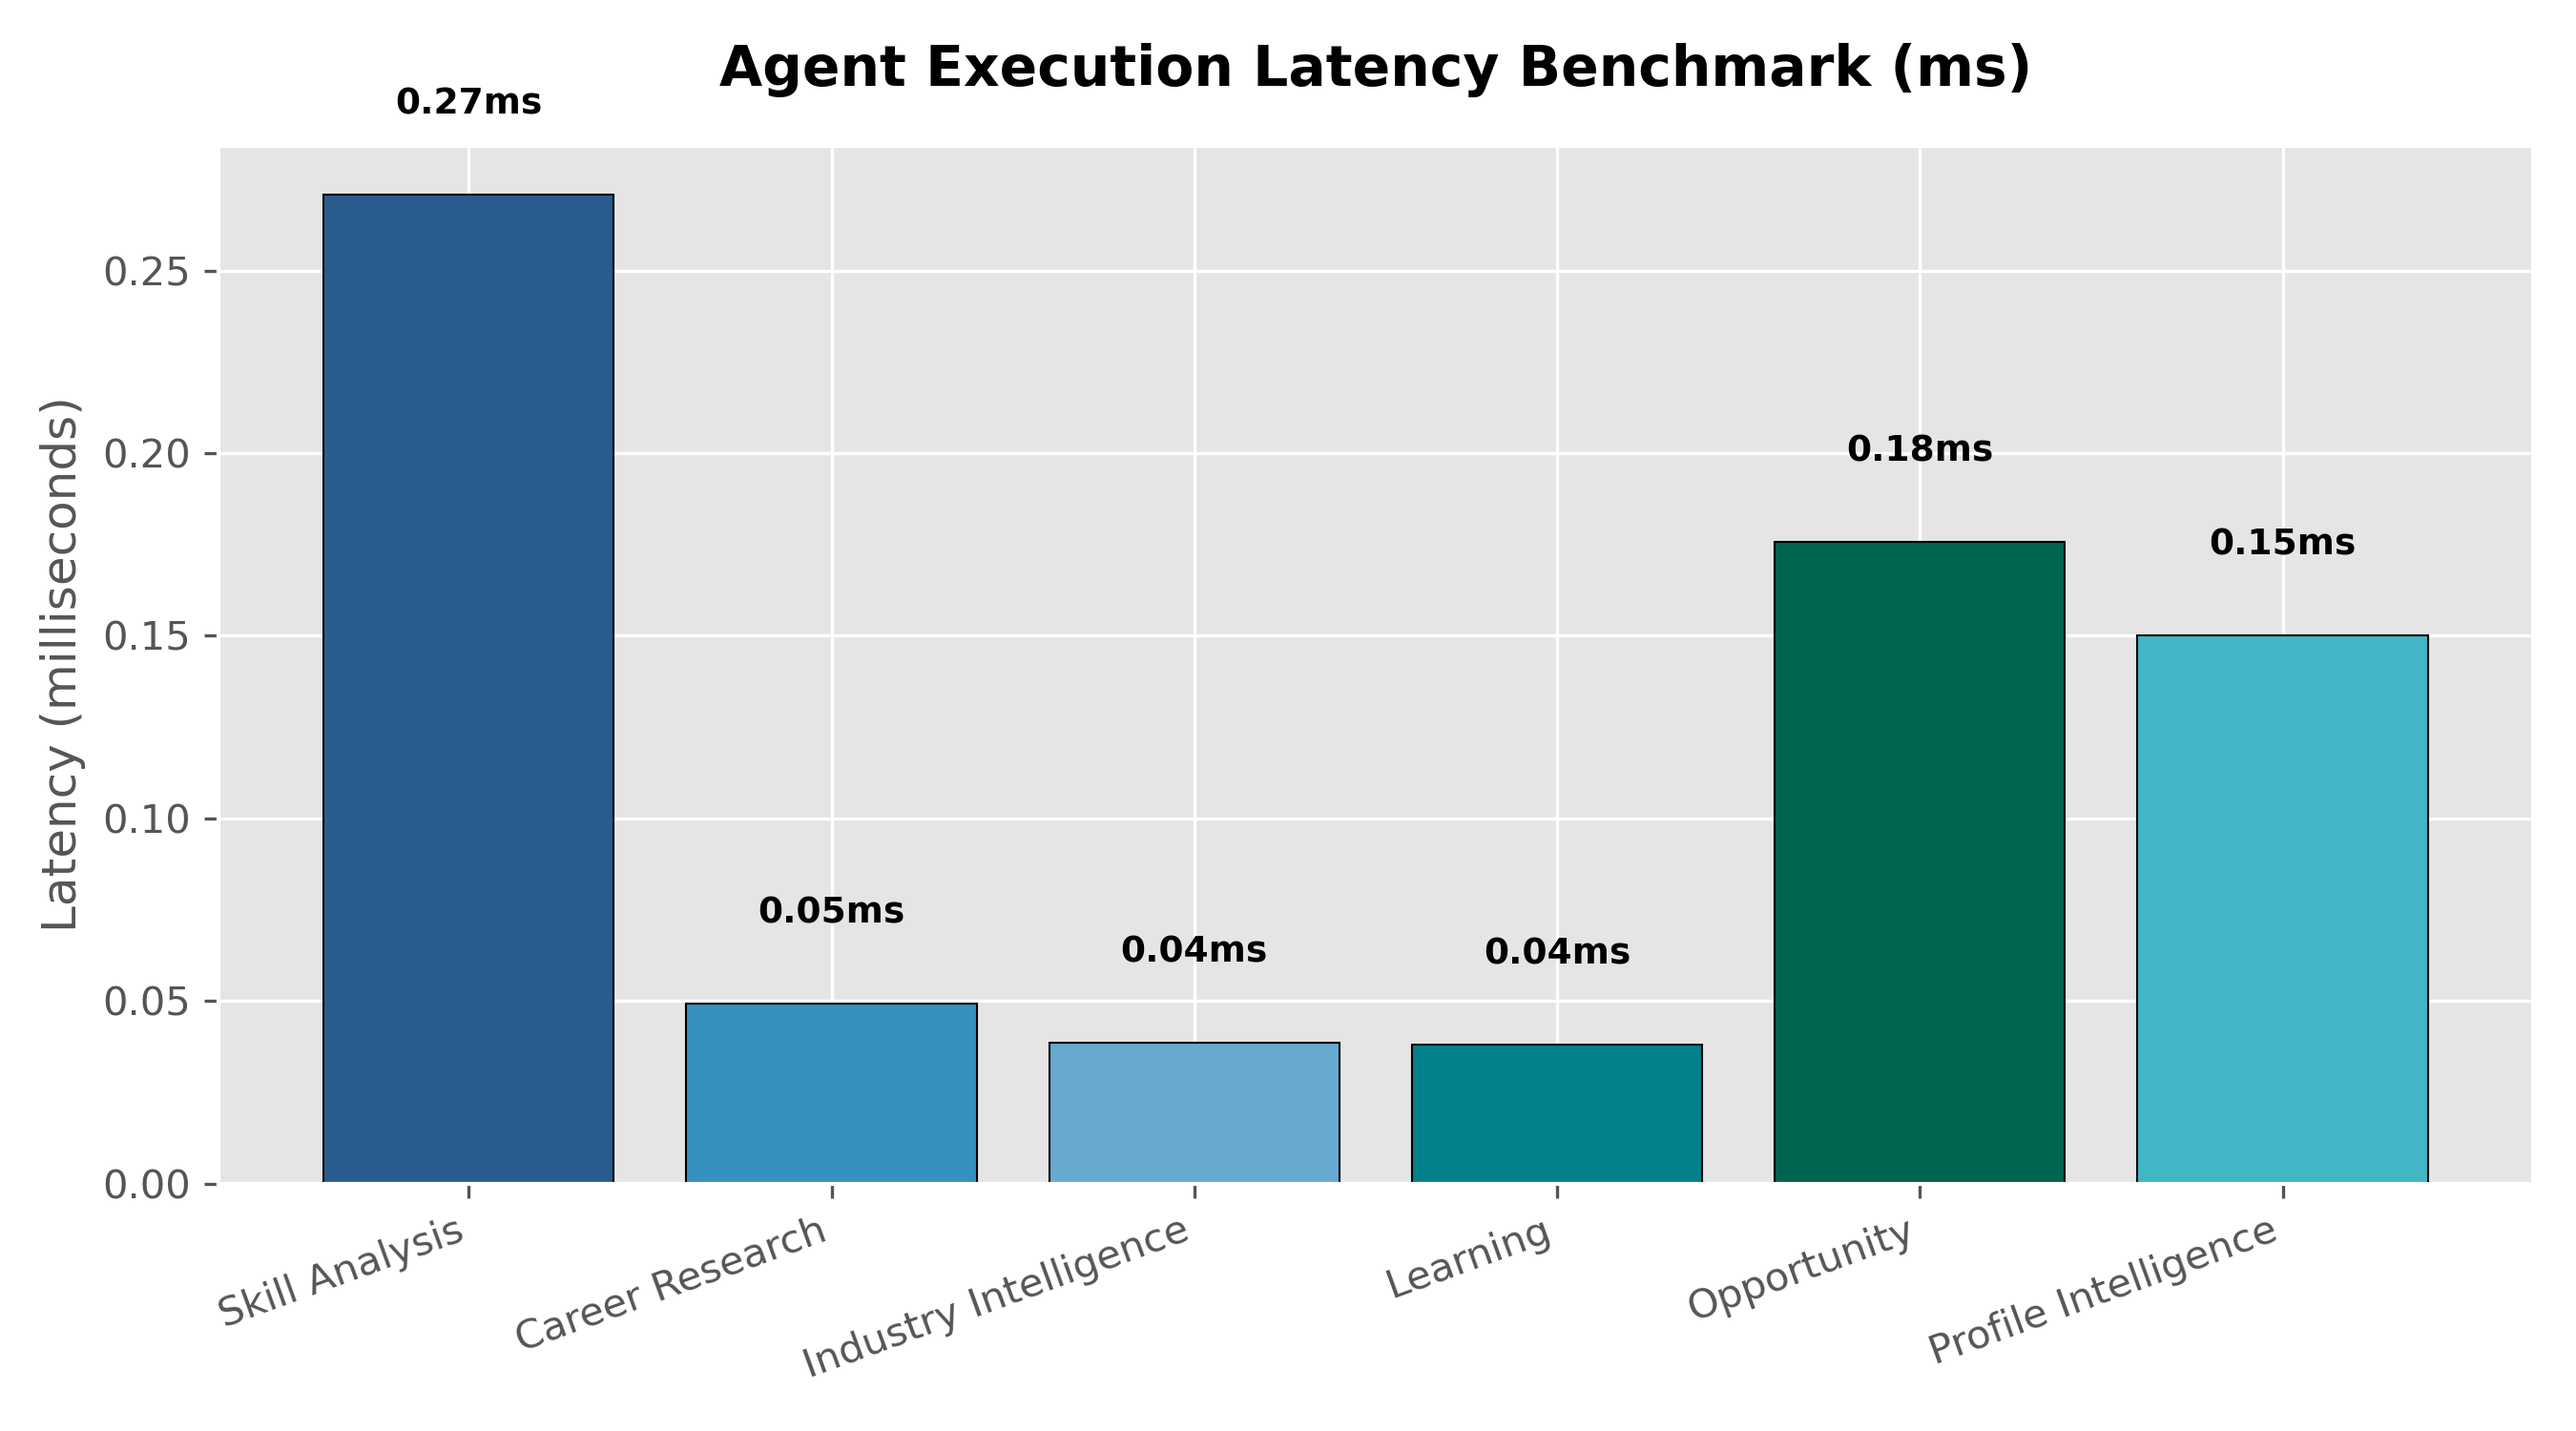
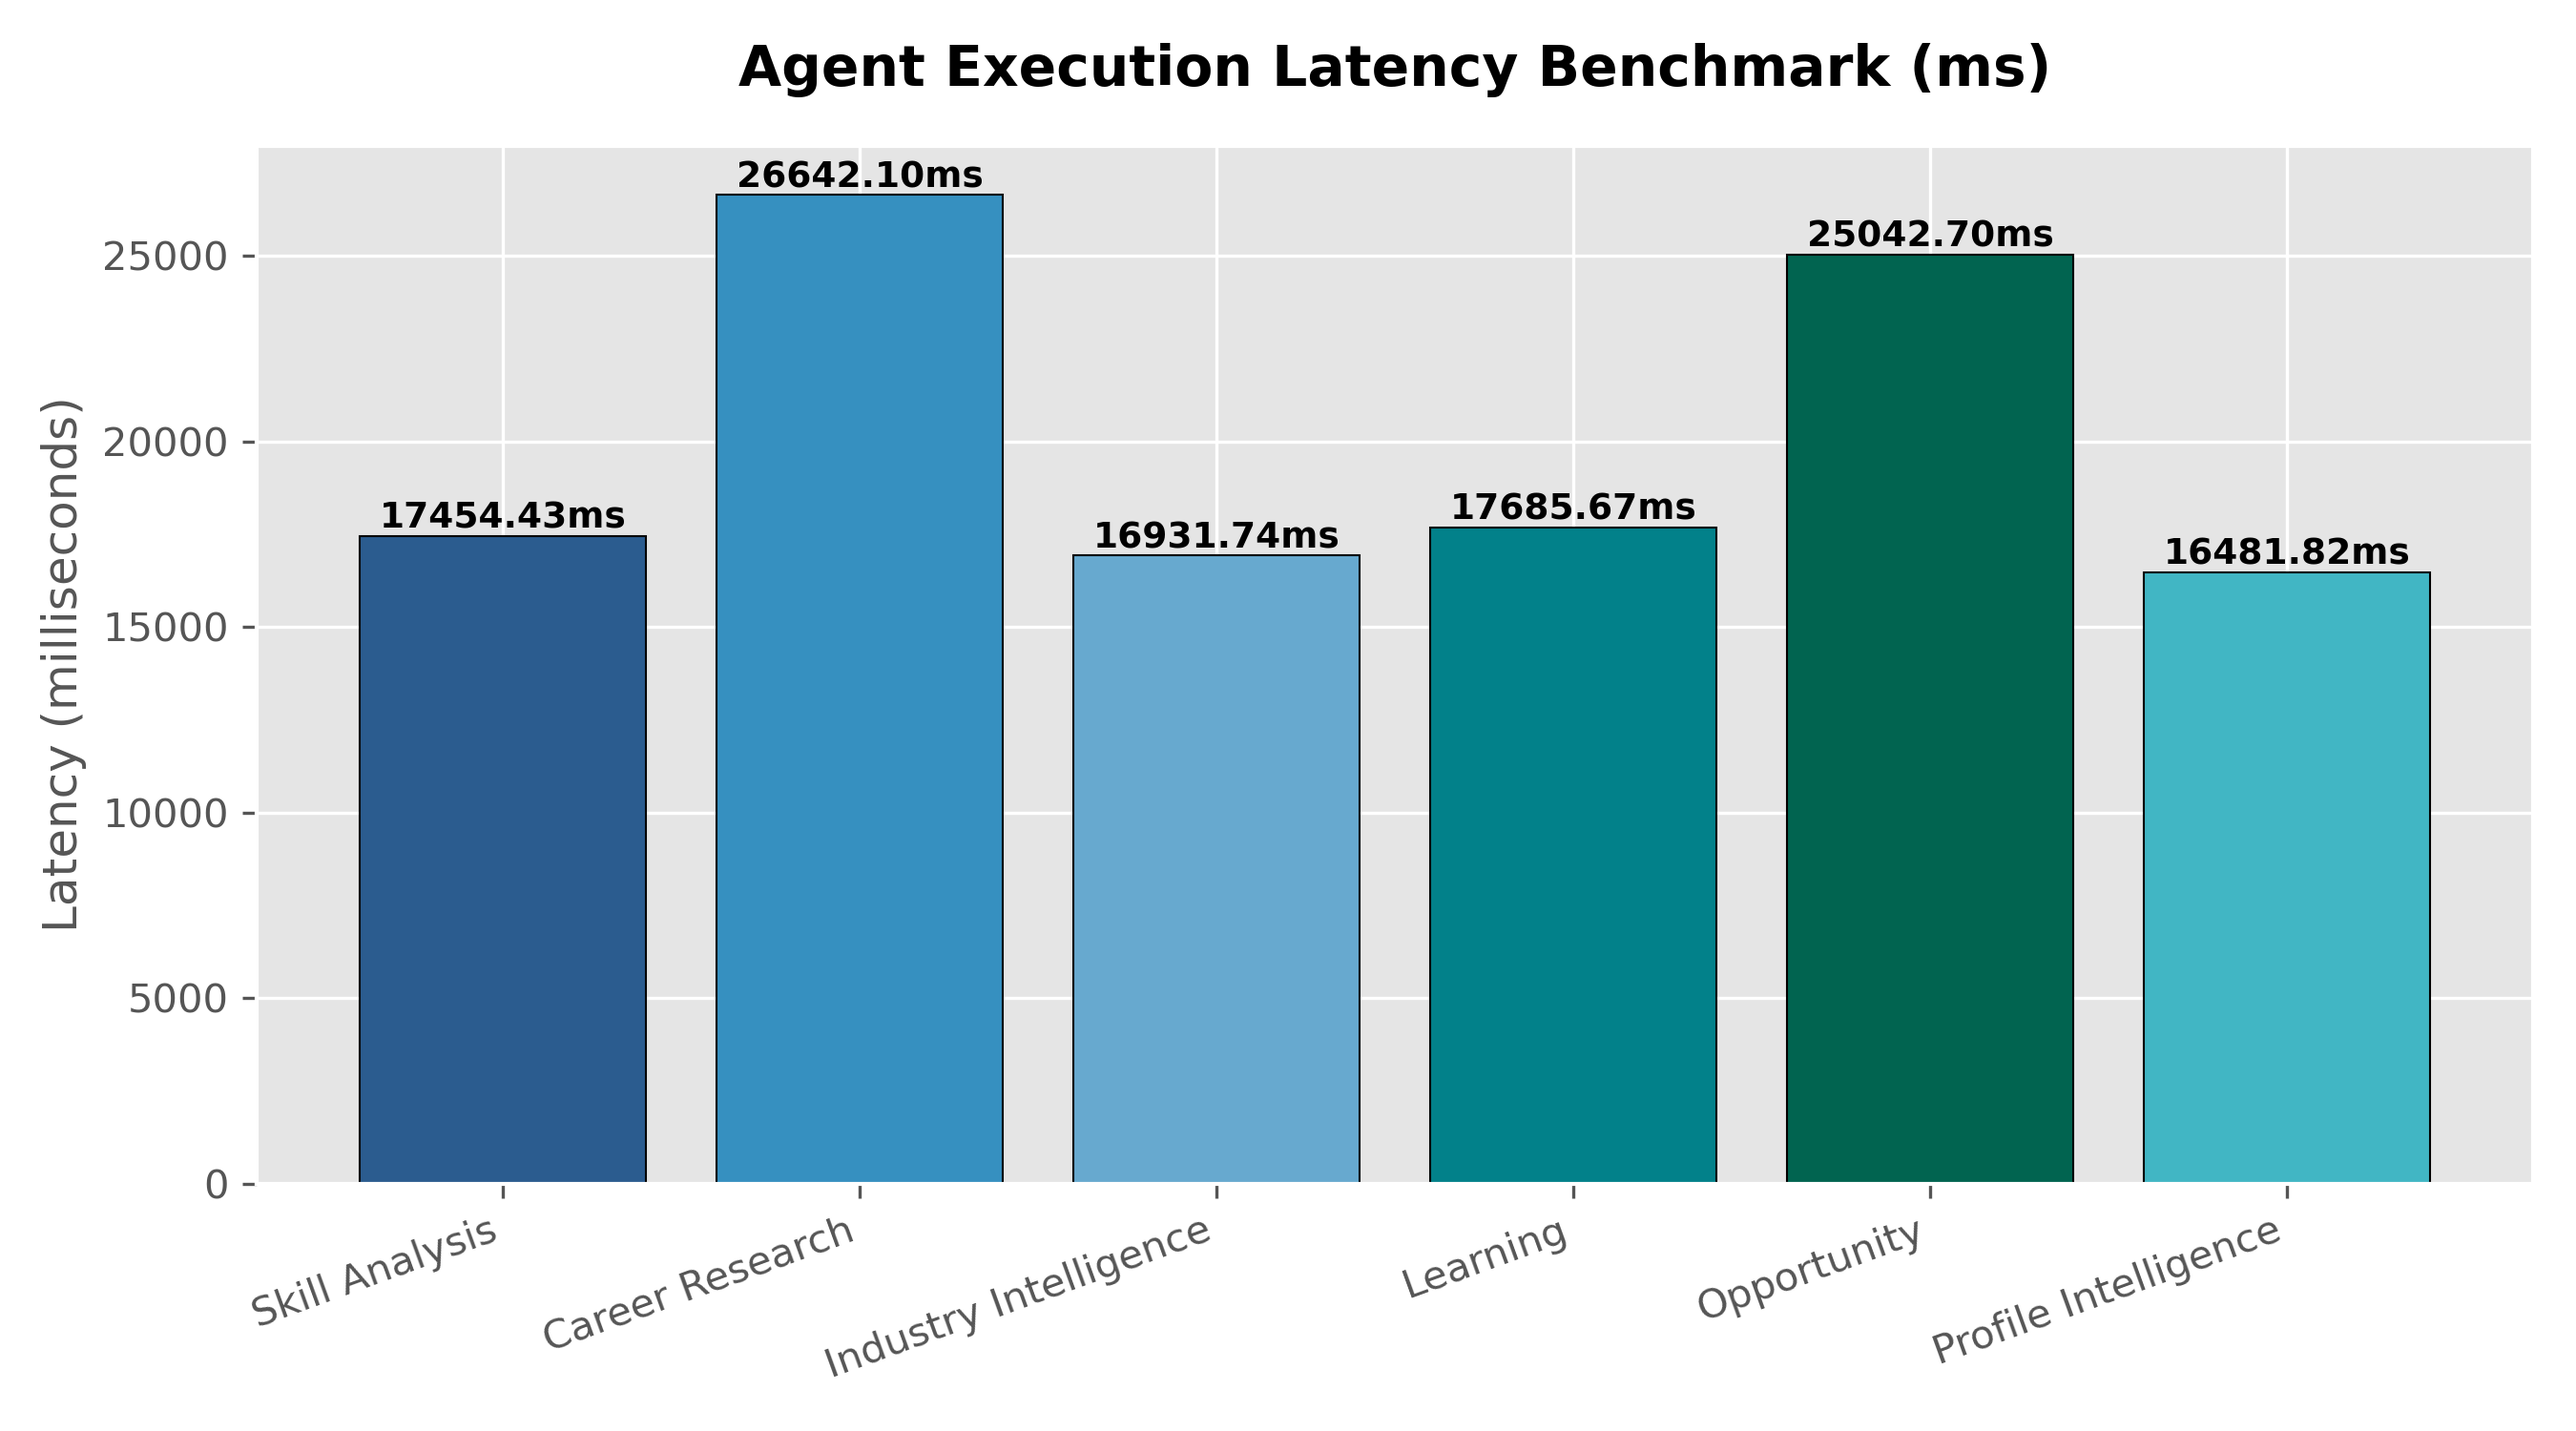
fix: increase LLMProvider timeout to 45s for live NVIDIA NIM calls

diff --git a/ai-career-engine/llm/provider.py b/ai-career-engine/llm/provider.py
@@ -127,8 +127,9 @@ class LLMProvider:
         candidate_models = [
             self.model_name,
             "meta/llama-3.2-11b-vision-instruct",
-            "nvidia/llama-3.1-nemotron-70b-instruct",
+            "nvidia/nemotron-4-340b-instruct",
         ]
+
 
         messages = [
             {"role": "system", "content": system_instruction or "You are an AI Career Engine Assistant."},
@@ -153,7 +154,7 @@ class LLMProvider:
                     },
                     method="POST",
                 )
-                with urllib.request.urlopen(req, timeout=15) as resp:
+                with urllib.request.urlopen(req, timeout=45) as resp:
                     data = json.loads(resp.read().decode("utf-8"))
                     choices = data.get("choices", [])
                     if choices:
@@ -163,6 +164,7 @@ class LLMProvider:
             except Exception as e:
                 last_err = e
                 logger.warning(f"NVIDIA model '{model}' call failed: {e}. Trying fallback...")
+
 
         logger.warning(f"NVIDIA API call failed ({last_err}). Falling back to simulation response.")
         return f"[NVIDIA Nemotron Analysis]: '{prompt[:100]}...'"
